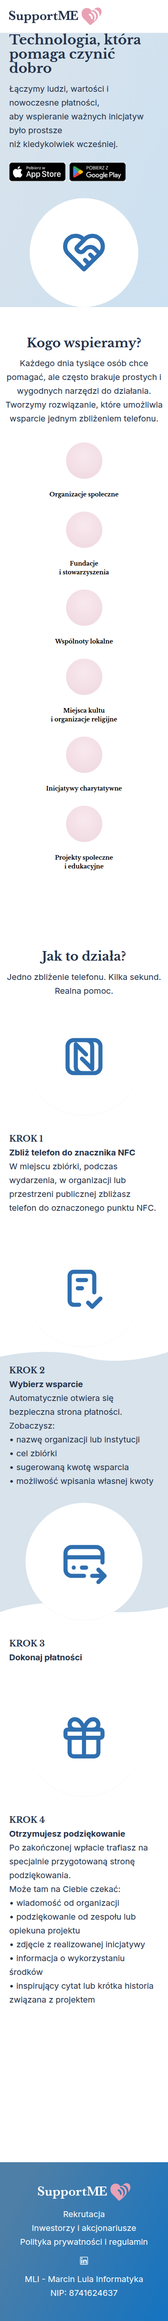
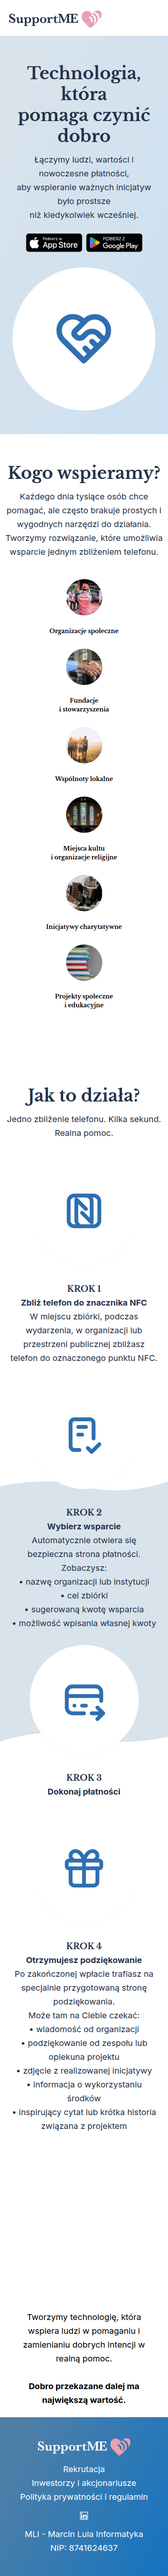
Mobile landing 1:1 wg ramki Figmy + oferty pracy na osobnych podstronach + UX wyszukiwarki
- mobile: te same fonty co desktop (H1/h2 40px, body 20px) — wcześniej błędnie zmniejszone;
  hero wyśrodkowany, koła 342/261px, tekst zamykający (jak w mobilnej ramce Figmy)
- kategoria: szukanie po kliknięciu „Szukaj", suggestbox miast, sync URL, bez ikon/licznika
- praca: trasa /praca/oferta/{position} + widok pojedynczej oferty (oferta.blade)
- screen.html: referencje z eksportów właściciela (pełne 402px mobile), bez upscalingu (ostrość)

Changed region(s): [[0.0, 0.0, 1.0, 0.8744], [0.0, 0.9056, 1.0, 0.9993]]

diff --git a/public/css/landing.css b/public/css/landing.css
@@ -203,18 +203,33 @@ img{ display:block; max-width:100%; }
     .lp-cats{ justify-content:center; }
     .lp-grid{ grid-template-columns:repeat(2,1fr); }
 }
+/* MOBILE — wg ramki Figmy 1:5 (402px): te same fonty 40/20/25px co desktop,
+   układ pionowy i wyśrodkowany. NIE zmniejszamy typografii. */
 @media (max-width:560px){
-    body.lp{ font-size:18px; }
     :root{ --lp-gutter:22px; }
-    .lp-header{ padding:18px 22px; }
+    .lp-header{ padding:25px 22px 18px; }
     .lp-nav{ display:none; }
     .lp-burger{ display:flex; }
-    .lp-hero__copy h1{ font-size:32px; }
-    .lp-head h2{ font-size:30px; }
-    .lp-circle--hero{ width:260px; height:260px; font-size:28px; }
-    .lp-cats{ flex-direction:column; align-items:center; gap:30px; margin-top:40px; }
+    .lp-hero{ min-height:0; }
+    .lp-hero__inner{ flex-direction:column; align-items:center; padding:64px 22px 56px; gap:36px; }
+    .lp-hero__copy{ width:100%; max-width:360px; text-align:center; }
+    .lp-hero__copy h1{ font-size:40px; }
+    .lp-badges{ justify-content:center; }
+    .lp-hero__art{ margin:0; align-self:center; }
+    .lp-circle--hero{ width:min(342px,86vw); height:min(342px,86vw); font-size:40px; }
+    .lp-head h2{ font-size:40px; }
+    .lp-cats{ flex-direction:column; align-items:center; gap:31px; margin-top:48px; }
     .lp-grid{ grid-template-columns:1fr; }
-    .lp-how{ padding:90px 0 110px; }
+    .lp-how{ padding:84px 0 96px; }
+    .lp-circle--step{ width:min(261px,70vw); height:min(261px,70vw); font-size:40px; }
+    .lp-step__body{ text-align:center; width:100%; max-width:354px; }
+}
+
+/* tekst zamykający — wg Figmy tylko na mobile */
+.lp-closing{ display:none; }
+@media (max-width:560px){
+    .lp-closing{ display:block; max-width:340px; margin:0 auto; padding:46px 22px 4px; text-align:center; font-size:20px; line-height:33px; color:#000; }
+    .lp-closing b{ font-weight:700; }
 }
 
 /* hamburger (tylko mobile) — wg Figmy: logo + ikona menu */

diff --git a/public/screen.html b/public/screen.html
@@ -30,7 +30,9 @@
   .note{ color:var(--muted); font-size:12.5px; margin:0 0 8px; }
 
   .side{ display:grid; grid-template-columns:1fr 1fr; gap:18px; align-items:start; }
-  .side.mobile{ grid-template-columns:1fr 1fr; max-width:980px; }
+  .side.mobile{ grid-template-columns:repeat(2,minmax(0,402px)); max-width:840px; justify-content:center; }
+  /* mobile: nie skalujemy w górę (402px natywne) — ostrość 1:1 */
+  .side.mobile .col img{ max-width:402px; margin:0 auto; image-rendering:auto; }
   .col{ background:var(--panel); border:1px solid var(--line); border-radius:14px; overflow:hidden; }
   .col h3{ margin:0; padding:11px 16px; font-size:12.5px; letter-spacing:.04em; text-transform:uppercase; color:var(--muted); border-bottom:1px solid var(--line); display:flex; justify-content:space-between; }
   .col h3 .tag{ color:var(--accent); }
@@ -40,7 +42,7 @@
   .overlay img{ display:block; width:100%; height:auto; }
   .overlay .top{ position:absolute; inset:0; }
   .single{ max-width:760px; }
-  .single.m{ max-width:430px; }
+  .single.m{ max-width:402px; }
 </style>
 </head>
 <body>

diff --git a/resources/views/storefront/church/shop/oferta.blade.php b/resources/views/storefront/church/shop/oferta.blade.php
@@ -1,0 +1,81 @@
+@extends('layouts.landing')
+
+@section('title', $position->title . ' — Praca — SupportME')
+@section('meta-description', \Illuminate\Support\Str::limit(trim(strip_tags($position->description_html ?? '')), 150) ?: 'Dołącz do zespołu SupportME — technologia, która pomaga czynić dobro.')
+
+@push('head')
+<link rel="stylesheet" href="{{ asset('css/subpages.css') }}?v={{ filemtime(public_path('css/subpages.css')) }}">
+<style>
+    .of-hero{ background:linear-gradient(112deg, rgba(78,127,167,.22) 13.6%, rgba(20,115,192,.22) 99.4%); padding:42px 0 46px; }
+    .of-hero__inner{ max-width:820px; margin:0 auto; padding:0 24px; }
+    .of-back{ display:inline-block; font-size:14px; color:var(--lp-ink); opacity:.7; margin-bottom:18px; }
+    .of-back:hover{ opacity:1; }
+    .of-hero h1{ font-family:var(--lp-display); font-weight:700; font-size:clamp(28px,5vw,40px); line-height:normal; color:var(--lp-ink); margin:0 0 16px; }
+    .of-tags{ display:flex; flex-wrap:wrap; gap:10px; }
+    .of-tag{ display:inline-flex; align-items:center; gap:6px; background:#fff; border:1px solid var(--lp-wave); color:var(--lp-ink); font-size:14px; font-weight:600; padding:7px 14px; border-radius:999px; }
+    .of-body{ max-width:820px; margin:0 auto; padding:48px 24px 24px; }
+    .of-desc{ font-family:var(--lp-ui); font-size:18px; line-height:1.7; color:var(--lp-ink); }
+    .of-desc h2,.of-desc h3{ font-family:var(--lp-display); color:var(--lp-ink); margin:1.4em 0 .5em; }
+    .of-desc ul{ padding-left:1.2em; } .of-desc li{ margin:.3em 0; }
+    .of-cta{ margin:40px auto 8px; max-width:820px; padding:0 24px; }
+    .of-btn{ display:flex; align-items:center; justify-content:center; gap:10px; width:100%; padding:18px 28px; border-radius:16px; font-family:var(--lp-ui); font-size:18px; font-weight:700; color:#fff; background:linear-gradient(117deg, var(--lp-blue-a), var(--lp-blue-b)); box-shadow:0 12px 30px rgba(20,115,192,.28); transition:transform .15s ease, box-shadow .15s ease; }
+    .of-btn:hover{ transform:translateY(-2px); box-shadow:0 18px 38px rgba(20,115,192,.36); }
+    .of-others{ max-width:1142px; margin:72px auto 0; padding:0 24px 24px; }
+    .of-others h2{ font-family:var(--lp-display); font-weight:700; font-size:26px; color:var(--lp-ink); text-align:center; margin:0 0 24px; }
+    .of-grid{ display:grid; grid-template-columns:repeat(3,1fr); gap:18px; }
+    .of-card{ display:block; background:#fff; border:1px solid #E6EAF0; border-radius:16px; padding:22px; box-shadow:0 8px 26px rgba(36,50,74,.06); transition:transform .15s ease, box-shadow .15s ease; }
+    .of-card:hover{ transform:translateY(-3px); box-shadow:0 16px 38px rgba(36,50,74,.13); }
+    .of-card__title{ font-family:var(--lp-display); font-weight:700; font-size:18px; color:var(--lp-ink); margin:0 0 8px; }
+    .of-card__meta{ font-size:14px; color:#5b6678; }
+    @media (max-width:820px){ .of-grid{ grid-template-columns:1fr; } }
+</style>
+@endpush
+
+@php
+    $loc = trim((string) $position->location);
+    $emp = trim((string) $position->employment_type);
+    $isRemote = \Illuminate\Support\Str::contains(mb_strtolower($loc.' '.$emp), ['zdaln', 'remote', 'hybryd']);
+@endphp
+
+@section('content')
+    <section class="of-hero">
+        <div class="of-hero__inner">
+            <a class="of-back" href="{{ route('careers') }}">← Wszystkie oferty</a>
+            <h1>{{ $position->title }}</h1>
+            <div class="of-tags">
+                @if($isRemote)<span class="of-tag">🌐 Praca zdalna</span>@endif
+                @if($emp)<span class="of-tag">🕒 {{ $emp }}</span>@endif
+                @if($loc)<span class="of-tag">📍 {{ $loc }}</span>@endif
+            </div>
+        </div>
+    </section>
+
+    <div class="of-body">
+        <div class="of-desc">
+            @if(trim(strip_tags($position->description_html ?? '')) !== '')
+                {!! $position->description_html !!}
+            @else
+                <p>Szukamy osoby, która chce współtworzyć technologię wspierającą organizacje, wspólnoty i inicjatywy niosące realną wartość ludziom. Jeżeli szukasz w pracy czegoś więcej niż kolejnego stanowiska — jesteś we właściwym miejscu.</p>
+                <p>Pełny opis zakresu obowiązków prześlemy w odpowiedzi na zgłoszenie. Aplikuj poniżej — odezwiemy się.</p>
+            @endif
+        </div>
+    </div>
+
+    <div class="of-cta">
+        <a class="of-btn" href="{{ route('careers.apply', $position) }}">Aplikuj na to stanowisko →</a>
+    </div>
+
+    @if($others->isNotEmpty())
+        <section class="of-others">
+            <h2>Inne oferty</h2>
+            <div class="of-grid">
+                @foreach($others as $o)
+                    <a class="of-card" href="{{ route('careers.show', $o) }}">
+                        <p class="of-card__title">{{ $o->title }}</p>
+                        <p class="of-card__meta">{{ collect([$o->employment_type, $o->location])->filter()->implode(' · ') ?: 'Zobacz szczegóły' }}</p>
+                    </a>
+                @endforeach
+            </div>
+        </section>
+    @endif
+@endsection

diff --git a/app/Modules/Storefront/Http/Controllers/CareersController.php b/app/Modules/Storefront/Http/Controllers/CareersController.php
@@ -23,6 +23,22 @@ class CareersController extends Controller
     }
 
     /**
+     * GET /praca/oferta/{position} — pojedyncza oferta pracy na osobnej podstronie.
+     */
+    public function show(JobPosition $position)
+    {
+        abort_unless($position->active, 404);
+
+        $others = JobPosition::where('active', true)
+            ->where('id', '!=', $position->id)
+            ->orderBy('sort')->orderBy('id')
+            ->limit(3)
+            ->get();
+
+        return view('shop.oferta', compact('position', 'others'));
+    }
+
+    /**
      * GET /praca/aplikuj — formularz aplikacji spontanicznej (bez oferty).
      * GET /praca/{position}/aplikuj — formularz aplikacji na konkretną ofertę.
      */

diff --git a/app/Modules/Storefront/routes/web.php b/app/Modules/Storefront/routes/web.php
@@ -19,6 +19,9 @@ Route::post('/p/{slug}/kup', [StorefrontController::class, 'buy'])->name('produc
 // Praca (kariera) — publiczna lista stanowisk
 Route::get('/praca', [CareersController::class, 'index'])->name('careers');
 
+// Pojedyncza oferta pracy na osobnej podstronie.
+Route::get('/praca/oferta/{position}', [CareersController::class, 'show'])->name('careers.show');
+
 // Formularz aplikacji — spontaniczna (bez oferty). MUSI być przed trasą z {position}.
 Route::get('/praca/aplikuj', [CareersController::class, 'applyForm'])->name('careers.apply.general');
 Route::post('/praca/aplikuj', [CareersController::class, 'applyStore'])->name('careers.apply.general.store');

diff --git a/resources/views/storefront/church/shop/home.blade.php b/resources/views/storefront/church/shop/home.blade.php
@@ -81,4 +81,9 @@
             </div>
         </div>
     </section>
+
+    {{-- Zamknięcie (w Figmie obecne w wersji mobilnej) --}}
+    <section class="lp-closing">
+        <p>Tworzymy technologię, która wspiera ludzi w pomaganiu i zamienianiu dobrych intencji w realną pomoc.<br><br><b>Dobro przekazane dalej ma największą wartość.</b></p>
+    </section>
 @endsection
